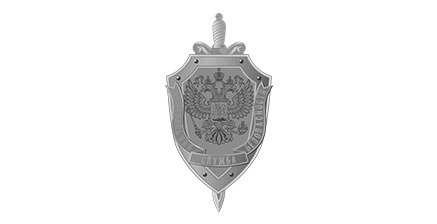
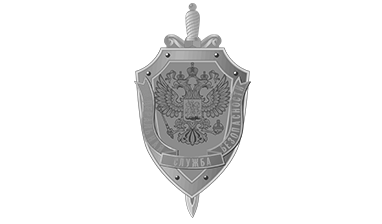
fix s7

Changed region(s): [[0.3455, 0.0, 0.6623, 0.9688]]

diff --git a/public/src/sass/index/s7.scss b/public/src/sass/index/s7.scss
@@ -108,7 +108,7 @@
                                         align-items: center;
                                         justify-content: center;
                                         img {
-                                            width: 200px;
+                                            width: 180px;
                                             opacity: .75;
                                             @media (max-width: 576px) {
                                                 max-width: 200px;
